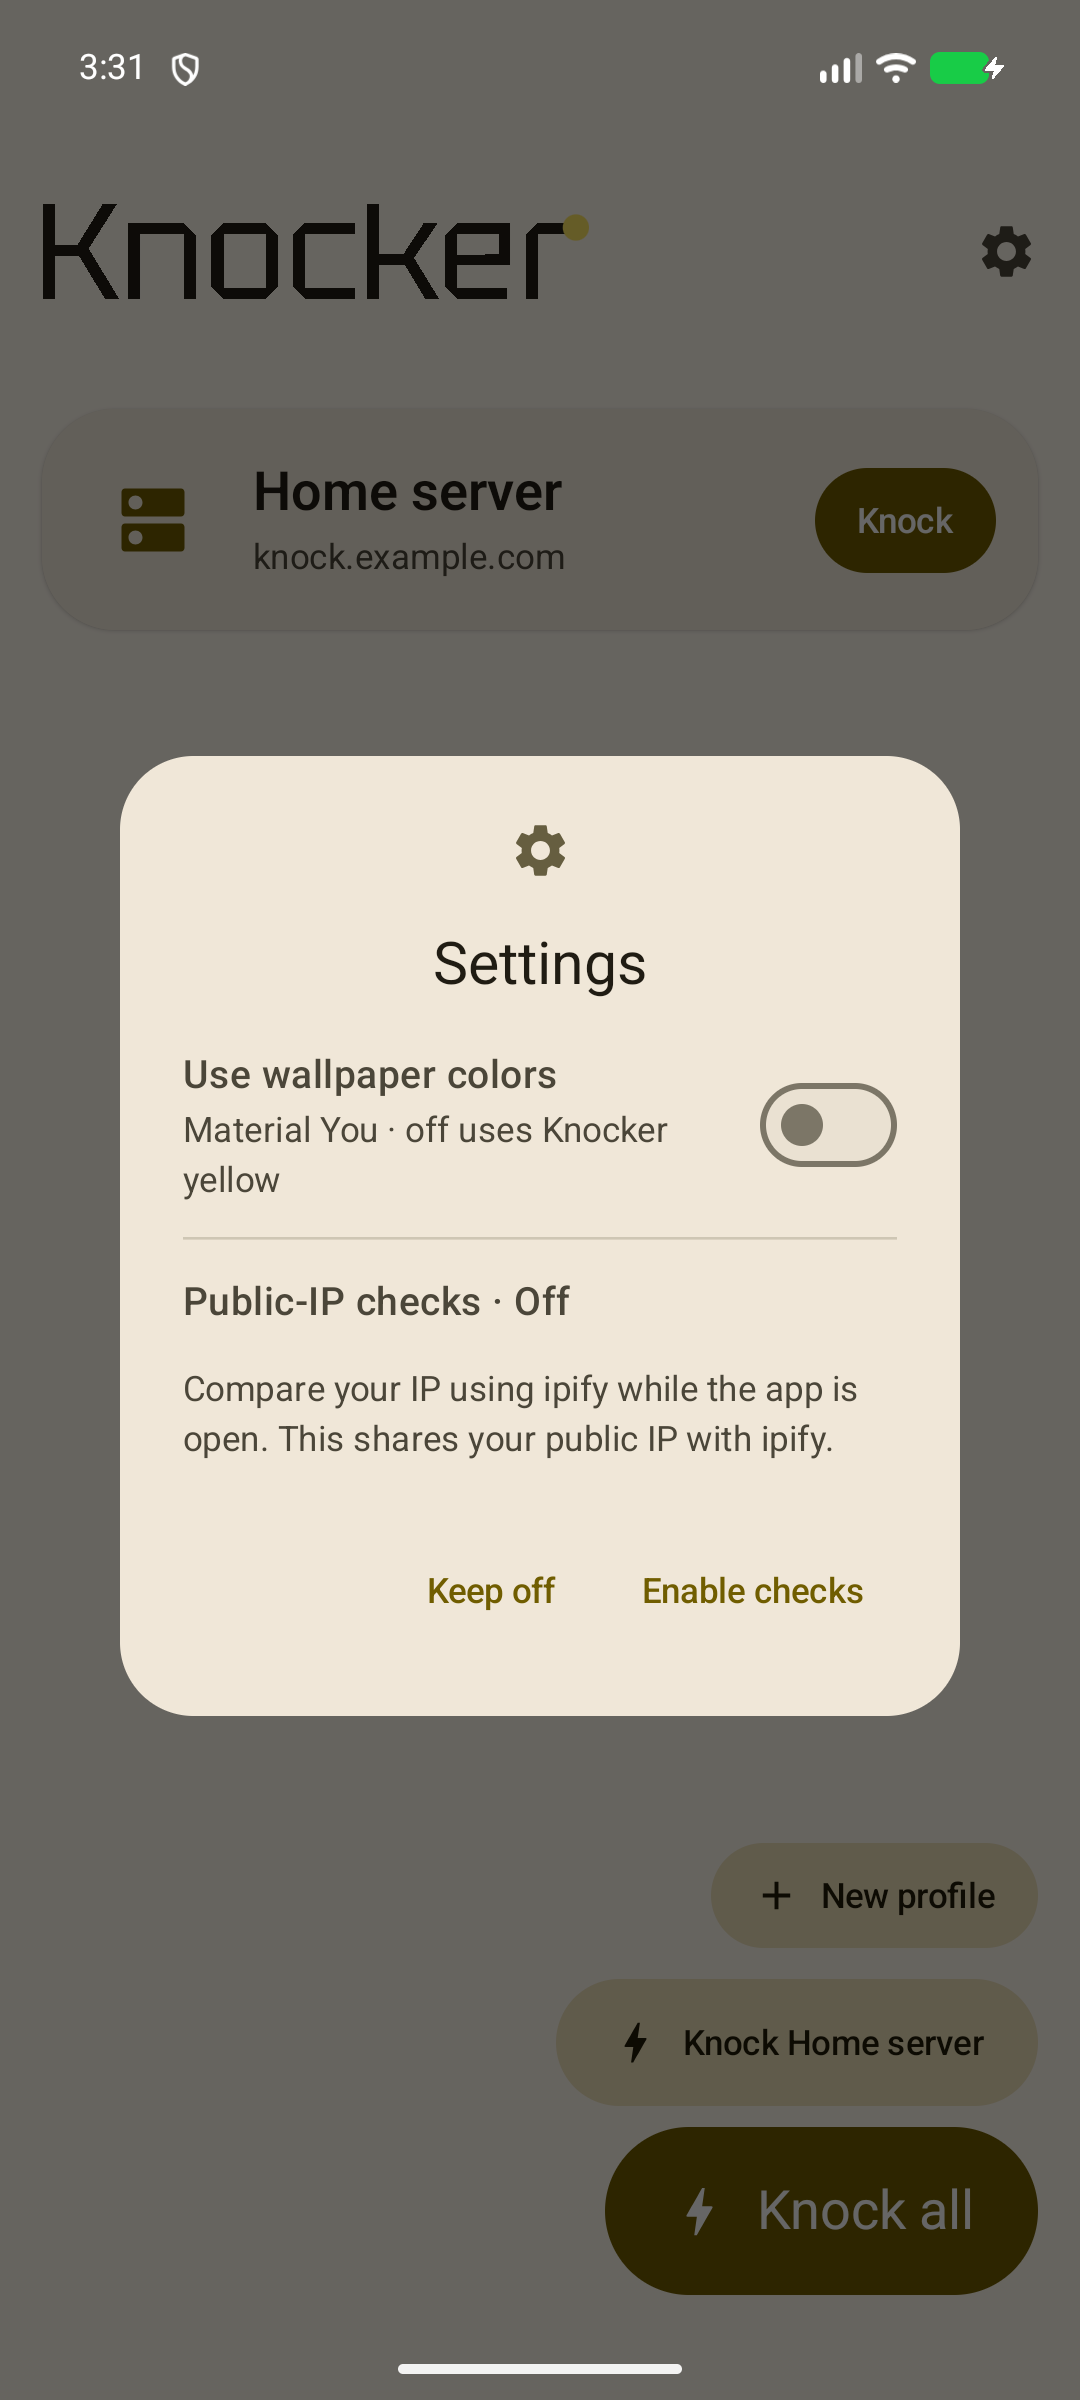
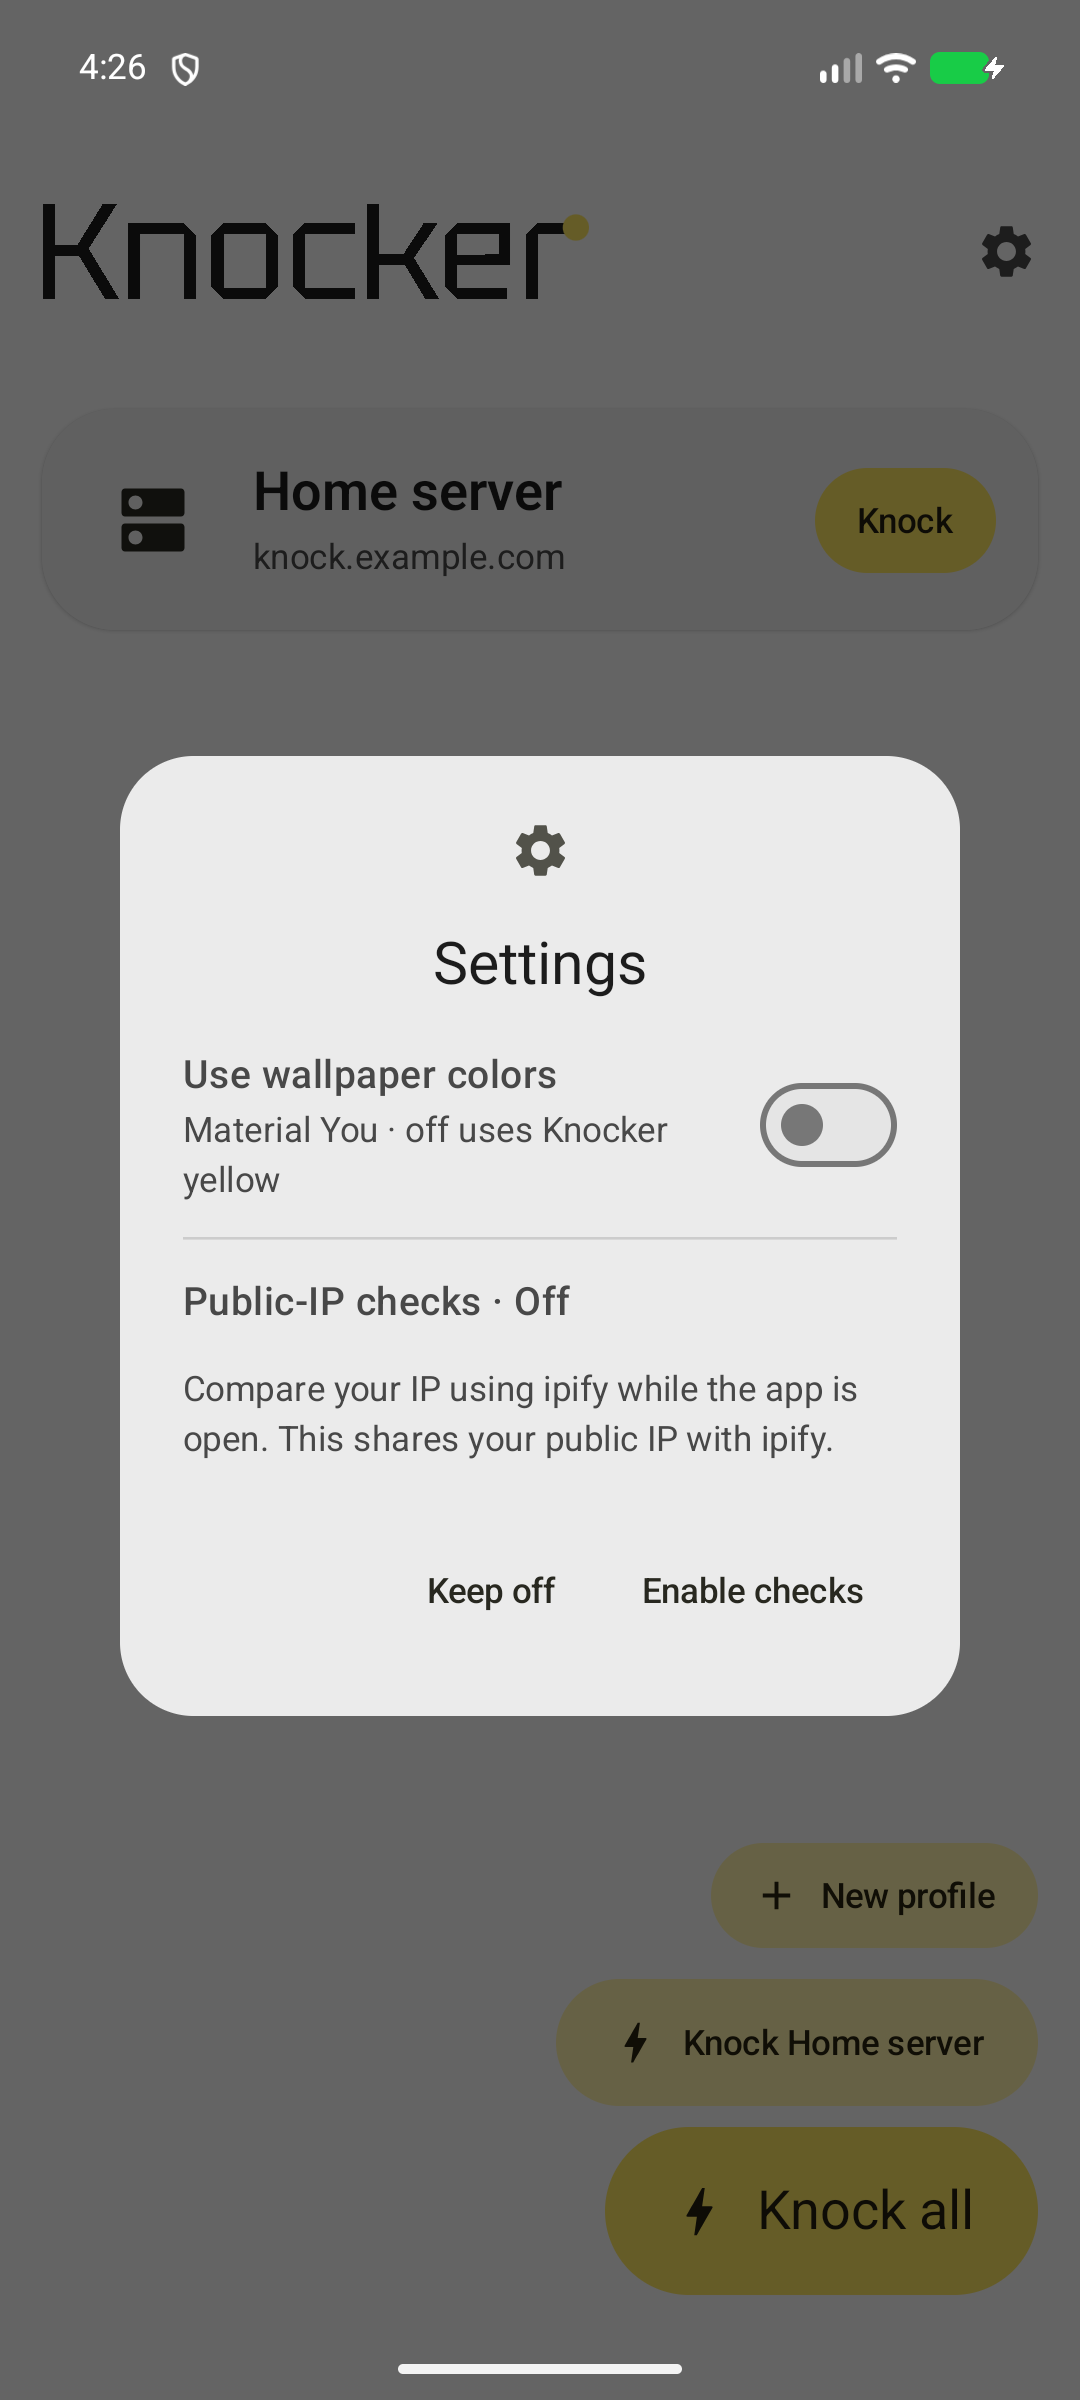
Use true Knocker yellow actions on neutral light surfaces

diff --git a/artifacts/knocker/modules/knocker-native/android/src/main/java/dev/faris/knockernative/NativeHome.kt b/artifacts/knocker/modules/knocker-native/android/src/main/java/dev/faris/knockernative/NativeHome.kt
@@ -50,6 +50,7 @@ internal fun NativeHome(state: NativeUiState, snackbar: SnackbarHostState, onOpe
   onNew: () -> Unit, onKnock: (String) -> Unit, onKnockAll: () -> Unit, onPreferences: () -> Unit) {
   val now = grantClock()
   val colors = MaterialTheme.colorScheme
+  val actionColors = knockerActionColors()
   var actionsHeight by remember { mutableIntStateOf(0) }
   val density = LocalDensity.current
   val clearance = with(density) { actionsHeight.toDp() } + 24.dp
@@ -86,9 +87,10 @@ internal fun NativeHome(state: NativeUiState, snackbar: SnackbarHostState, onOpe
           Button(onClick = onKnockAll, enabled = state.pending.isEmpty(), shapes = ButtonDefaults.shapes(),
             modifier = Modifier.heightIn(min = 64.dp).semantics { contentDescription = "Knock all servers" },
             contentPadding = PaddingValues(horizontal = 24.dp, vertical = 16.dp),
-            colors = ButtonDefaults.buttonColors(disabledContainerColor = colors.primary, disabledContentColor = colors.onPrimary)
+            colors = ButtonDefaults.buttonColors(containerColor = actionColors.container, contentColor = actionColors.content,
+              disabledContainerColor = actionColors.container, disabledContentColor = actionColors.content)
           ) {
-            if (state.pending.isNotEmpty()) LoadingIndicator(Modifier.size(28.dp), color = colors.onPrimary)
+            if (state.pending.isNotEmpty()) LoadingIndicator(Modifier.size(28.dp), color = actionColors.content)
             else Icon(Icons.Default.Bolt, null)
             Spacer(Modifier.width(10.dp))
             Text(if (state.pending.isEmpty()) "Knock all" else "Connecting…", style = MaterialTheme.typography.titleLarge)
@@ -118,6 +120,7 @@ internal fun NativeHome(state: NativeUiState, snackbar: SnackbarHostState, onOpe
 private fun NativeProfileCard(profile: JSONObject, state: NativeUiState, now: Long,
   onOpen: (String) -> Unit, onKnock: (String) -> Unit) {
   val colors = MaterialTheme.colorScheme
+  val actionColors = knockerActionColors()
   val dark = isSystemInDarkTheme()
   val id = profile.optString("id"); val name = profile.optString("name").ifBlank { "Untitled profile" }
   val hasIdentity = !profile.textOrNull("id").isNullOrBlank()
@@ -182,17 +185,17 @@ private fun NativeProfileCard(profile: JSONObject, state: NativeUiState, now: Lo
               style = MaterialTheme.typography.bodyMedium, maxLines = 1, overflow = TextOverflow.Ellipsis)
           }
           Button(onClick = { onKnock(id) }, enabled = hasIdentity && !pending && profile.optString("apiKey").isNotBlank(), shapes = ButtonDefaults.shapes(),
-            colors = ButtonDefaults.buttonColors(containerColor = if (active) success else colors.primary,
-              contentColor = if (active) onSuccess else colors.onPrimary,
-              disabledContainerColor = if (active) success else colors.primary,
-              disabledContentColor = if (active) onSuccess else colors.onPrimary),
+            colors = ButtonDefaults.buttonColors(containerColor = if (active) success else actionColors.container,
+              contentColor = if (active) onSuccess else actionColors.content,
+              disabledContainerColor = if (active) success else actionColors.container,
+              disabledContentColor = if (active) onSuccess else actionColors.content),
             modifier = Modifier.semantics { contentDescription = "Knock $name" }
           ) { Text(if (pending) "Knocking" else if (warning && active) "Update IP" else if (active) "Renew" else "Knock") }
         }
         val status = if (pending) "${if (active) "Renewing" else "Connecting"}…" else if (active) "Whitelisted · $count" else if (!failed && expiry > 0L) "Expired" else null
         if (status != null) {
-          Surface(shape = MaterialTheme.shapes.small, color = if (pending) colors.primary else if (active) success else colors.secondaryContainer,
-            contentColor = if (pending) colors.onPrimary else if (active) onSuccess else colors.onSecondaryContainer) {
+          Surface(shape = MaterialTheme.shapes.small, color = if (pending) actionColors.container else if (active) success else colors.secondaryContainer,
+            contentColor = if (pending) actionColors.content else if (active) onSuccess else colors.onSecondaryContainer) {
             Text(status, Modifier.padding(horizontal = 10.dp, vertical = 5.dp), style = MaterialTheme.typography.labelMedium)
           }
         }

diff --git a/artifacts/knocker/modules/knocker-native/android/src/main/java/dev/faris/knockernative/KnockerTheme.kt b/artifacts/knocker/modules/knocker-native/android/src/main/java/dev/faris/knockernative/KnockerTheme.kt
@@ -19,27 +19,38 @@ internal fun themePreferences(context: Context): SharedPreferences =
 internal data class Appearance(val wallpaperColors: Boolean = false, val setWallpaperColors: (Boolean) -> Unit = {})
 internal val LocalAppearance = staticCompositionLocalOf { Appearance() }
 
-// Yellow containers keep the exact wordmark color in light mode; darker gold
-// foregrounds keep text and icons legible on light surfaces.
+// Keep light surfaces neutral and use the actual wordmark yellow for filled
+// actions. Primary text/focus indicators stay dark instead of becoming olive.
 internal val KnockerLightColors = lightColorScheme(
-  primary = Color(0xFF705D00), onPrimary = Color.White,
-  primaryContainer = KnockerYellow, onPrimaryContainer = Color(0xFF221B00),
+  primary = Color(0xFF282820), onPrimary = Color.White,
+  primaryContainer = KnockerYellow, onPrimaryContainer = Color(0xFF221F10),
   inversePrimary = KnockerYellow,
-  secondary = Color(0xFF665E40), onSecondary = Color.White,
-  secondaryContainer = Color(0xFFEFE3BC), onSecondaryContainer = Color(0xFF211B08),
+  secondary = Color(0xFF52524A), onSecondary = Color.White,
+  secondaryContainer = Color(0xFFFFF2AC), onSecondaryContainer = Color(0xFF282410),
   tertiary = Color(0xFF45664C), onTertiary = Color.White,
   tertiaryContainer = Color(0xFFC7ECCB), onTertiaryContainer = Color(0xFF082010),
-  background = Color(0xFFFFF9EE), onBackground = Color(0xFF201C13),
-  surface = Color(0xFFFFF9EE), onSurface = Color(0xFF201C13),
-  surfaceVariant = Color(0xFFEAE2CF), onSurfaceVariant = Color(0xFF4B4639),
-  surfaceTint = Color(0xFF705D00),
-  inverseSurface = Color(0xFF353026), inverseOnSurface = Color(0xFFFAF1E2),
-  outline = Color(0xFF7C7667), outlineVariant = Color(0xFFCEC6B4),
-  surfaceDim = Color(0xFFE2D9CA), surfaceBright = Color(0xFFFFF9EE),
-  surfaceContainerLowest = Color.White, surfaceContainerLow = Color(0xFFFCF3E4),
-  surfaceContainer = Color(0xFFF6EDDE), surfaceContainerHigh = Color(0xFFF0E7D8),
-  surfaceContainerHighest = Color(0xFFEAE1D2)
+  background = Color(0xFFFAFAFA), onBackground = Color(0xFF1C1C1C),
+  surface = Color(0xFFFAFAFA), onSurface = Color(0xFF1C1C1C),
+  surfaceVariant = Color(0xFFE8E8E8), onSurfaceVariant = Color(0xFF484848),
+  surfaceTint = Color.Transparent,
+  inverseSurface = Color(0xFF303030), inverseOnSurface = Color(0xFFF5F5F5),
+  outline = Color(0xFF777777), outlineVariant = Color(0xFFCCCCCC),
+  surfaceDim = Color(0xFFDDDDDD), surfaceBright = Color(0xFFFAFAFA),
+  surfaceContainerLowest = Color.White, surfaceContainerLow = Color(0xFFF5F5F5),
+  surfaceContainer = Color(0xFFF0F0F0), surfaceContainerHigh = Color(0xFFEBEBEB),
+  surfaceContainerHighest = Color(0xFFE5E5E5)
 )
+
+internal data class ActionColors(val container: Color, val content: Color)
+
+/** Filled actions use brand yellow without making text buttons yellow on white. */
+@Composable
+internal fun knockerActionColors(): ActionColors {
+  val colors = MaterialTheme.colorScheme
+  return if (!isSystemInDarkTheme() && !LocalAppearance.current.wallpaperColors) {
+    ActionColors(KnockerYellow, KnockerLightColors.onPrimaryContainer)
+  } else ActionColors(colors.primary, colors.onPrimary)
+}
 
 internal val KnockerDarkColors = darkColorScheme(
   primary = KnockerYellow, onPrimary = Color(0xFF3B3000),

diff --git a/artifacts/knocker/modules/knocker-native/android/src/main/java/dev/faris/knockernative/KnockerAppView.kt b/artifacts/knocker/modules/knocker-native/android/src/main/java/dev/faris/knockernative/KnockerAppView.kt
@@ -167,7 +167,9 @@ internal fun NativeApp(state: NativeUiState, emit: (String, Map<String, Any?>) -
             Column(Modifier.fillMaxSize().padding(padding).padding(24.dp), verticalArrangement = Arrangement.spacedBy(16.dp)) {
               Text("Unable to open Knocker", style = MaterialTheme.typography.headlineSmall)
               Text(sceneState.fatal)
-              Button(onClick = { dispatch("restart") }) { Text("Try again") }
+              Button(onClick = { dispatch("restart") }, colors = knockerActionColors().let {
+                ButtonDefaults.buttonColors(containerColor = it.container, contentColor = it.content)
+              }) { Text("Try again") }
             }
           }
         } else if (destination == "home") {

diff --git a/docs/material3/README.md b/docs/material3/README.md
@@ -4,7 +4,7 @@ Android renders one `KnockerAppView`, an Expo native module containing a complet
 
 `NativeHome.kt` and `NativeEditor.kt` use Material 3 `Scaffold`, app bars, native lazy scrolling, outlined fields, switches, chips, expressive buttons, loading indicators and `SnackbarHost`. `KnockerAppView.kt` uses Jetpack Navigation 3 `NavDisplay` for destination transitions and system/predictive back. Each destination has one app-bar title. Home uses the original vector wordmark in a roomier native top bar; profile counts and connection metadata no longer occupy a second header. There is no Expo Router modal header or second page heading above the editor.
 
-The old per-control Expo UI wrappers and their button patch have been removed. The complete native surface uses Material 3's expressive theme and button-shape APIs directly. Current pins: Compose 1.12.1, Material 3 1.5.0-rc01, Navigation 3 1.2.1. Knocker yellow (`#FDE562`, shared with the wordmark) anchors the default light and dark palettes. Dark mode uses it as the primary accent; light mode uses yellow containers and darker gold foregrounds for contrast. Android 12+ users can opt into wallpaper-based Material You colors with **Settings → Use wallpaper colors**. This native preference defaults to off, persists across restarts, and updates every destination immediately. Older Android versions always use the branded palette. Both options follow Android light/dark appearance, with paired content/container colors and a contrasting green permission state.
+The old per-control Expo UI wrappers and their button patch have been removed. The complete native surface uses Material 3's expressive theme and button-shape APIs directly. Current pins: Compose 1.12.1, Material 3 1.5.0-rc01, Navigation 3 1.2.1. Knocker yellow (`#FDE562`, shared with the wordmark) anchors the default light and dark palettes. Dark mode uses it as the primary accent. Light mode uses the exact yellow on filled actions with dark text, pale lemon secondary actions and neutral white/gray surfaces. Text actions and field labels stay dark for readability. Android 12+ users can opt into wallpaper-based Material You colors with **Settings → Use wallpaper colors**. This native preference defaults to off, persists across restarts, and updates every destination immediately. Older Android versions always use the branded palette. Both options follow Android light/dark appearance, with paired content/container colors and a contrasting green permission state.
 
 ## Interaction and feedback
 
@@ -67,6 +67,8 @@ Instrumentation tests explicitly use Espresso 3.8.0-alpha03: Compose's older tra
 ## Branded appearance validation
 
 The default-yellow change passed workspace type checking, all 54 JavaScript tests, all 15 native JVM tests and all 13 Compose/navigation tests on the Android 16 emulator. The new UI test verifies default-off behavior, immediate wallpaper-color selection, preference restoration after theme recreation and returning to the branded palette.
+
+After revising light mode to use exact-yellow filled actions and neutral surfaces, all 13 Compose/navigation tests and the release build passed again.
 
 The optimized release APK also passed installed-app checks for light/dark appearance, immediate palette switching and both on/off choices surviving relaunch. Captures: `yellow-home-dark.png`, `yellow-home-light.png`, `yellow-settings-dark.png`, `yellow-settings-light.png` and `wallpaper-settings-dark.png` in `screenshots/`. The profile uses demonstration data.
 
